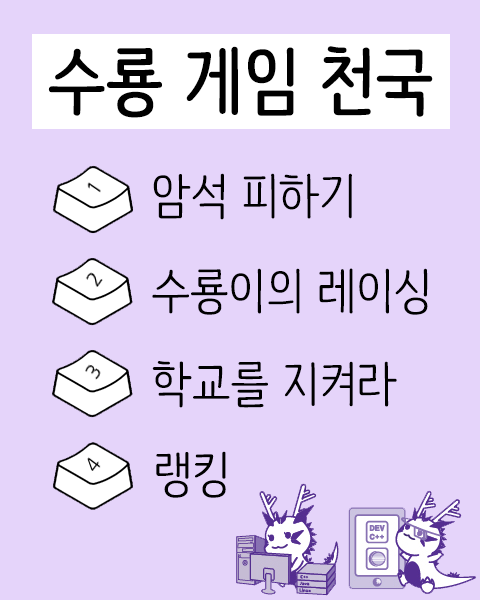
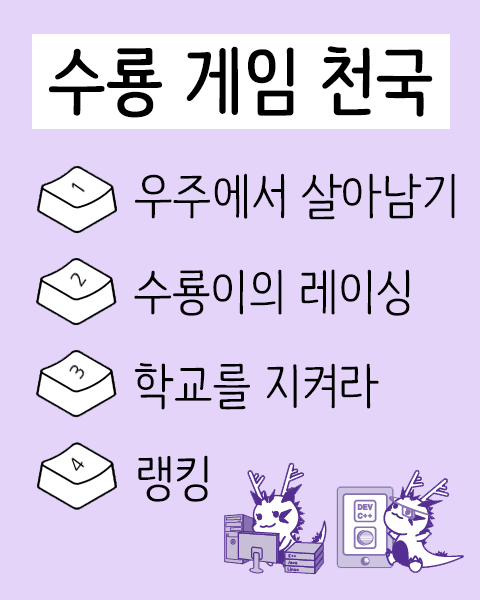
게임이름 암석 피하기에서 우주에서 살아남기로 변경

diff --git a/Ranking.py b/Ranking.py
@@ -32,7 +32,7 @@ def ranking_screen():
     screen.blit(start_image, [0, 0])
 
     # 파일에서 점수 정보 가져오기
-    draw_text("암석 피하기(Local)", default_font, screen, 120, 150,  BLACK)
+    draw_text("우주에서 살아남기(Local)", default_font, screen, 120, 150,  BLACK)
     try:
         PySpaceshipLocalRankingList = pickle.load(open("./PySpaceship/PySpaceshipRanking.pic", "rb"))
     except:
@@ -44,7 +44,7 @@ def ranking_screen():
     for i in range(0, length):
         draw_text(str(PySpaceshipLocalRankingList[i]), default_font, screen, 120, 170 + (i * 30),  BLACK)
     # DB에서 점수 정보 가져오기
-    draw_text("암석 피하기(Online)", default_font, screen, 360, 150,  BLACK)
+    draw_text("우주에서 살아남기(Online)", default_font, screen, 360, 150,  BLACK)
     conn = cx_Oracle.connect("shy/shyshyshy@kh-final.c9kbkjh06ivh.ap-northeast-2.rds.amazonaws.com:1521/shy")
     cursor = conn.cursor()
     cursor.execute("select * from pyspaceship order by score desc")

diff --git a/PySpaceship/PySpaceShip.py b/PySpaceship/PySpaceShip.py
@@ -19,7 +19,6 @@ BLUE = (20, 20, 250)
 
 pygame.init()
 screen = pygame.display.set_mode((WINDOW_WIDTH, WINDOW_HEIGHT))
-pygame.display.set_caption('PySpaceShip : 우주 암석 피하기 게임')
 pygame.display.set_icon(pygame.image.load('./PySpaceShip/icon.jpg'))
 fps_clock = pygame.time.Clock()
 FPS = 60
@@ -225,11 +224,12 @@ def game_loop():    #실제 게임 엔진
 def game_screen():
     global score
     pygame.mouse.set_visible(True)
+    pygame.display.set_caption('우주에서 살아남기')
 
     start_image = pygame.image.load('./PySpaceShip/game_screen.png')
     screen.blit(start_image, [0, 0])
 
-    draw_text('우주 암석 피하기',
+    draw_text('우주에서 살아남기',
               pygame.font.Font('./PySpaceShip/NanumGothic.ttf', 50), screen,
               WINDOW_WIDTH / 2, 100, (255, 255, 255))
     draw_text('마우스를 움직여서 수룡이가 암석을 피할 수 있게 도와주세요!',
